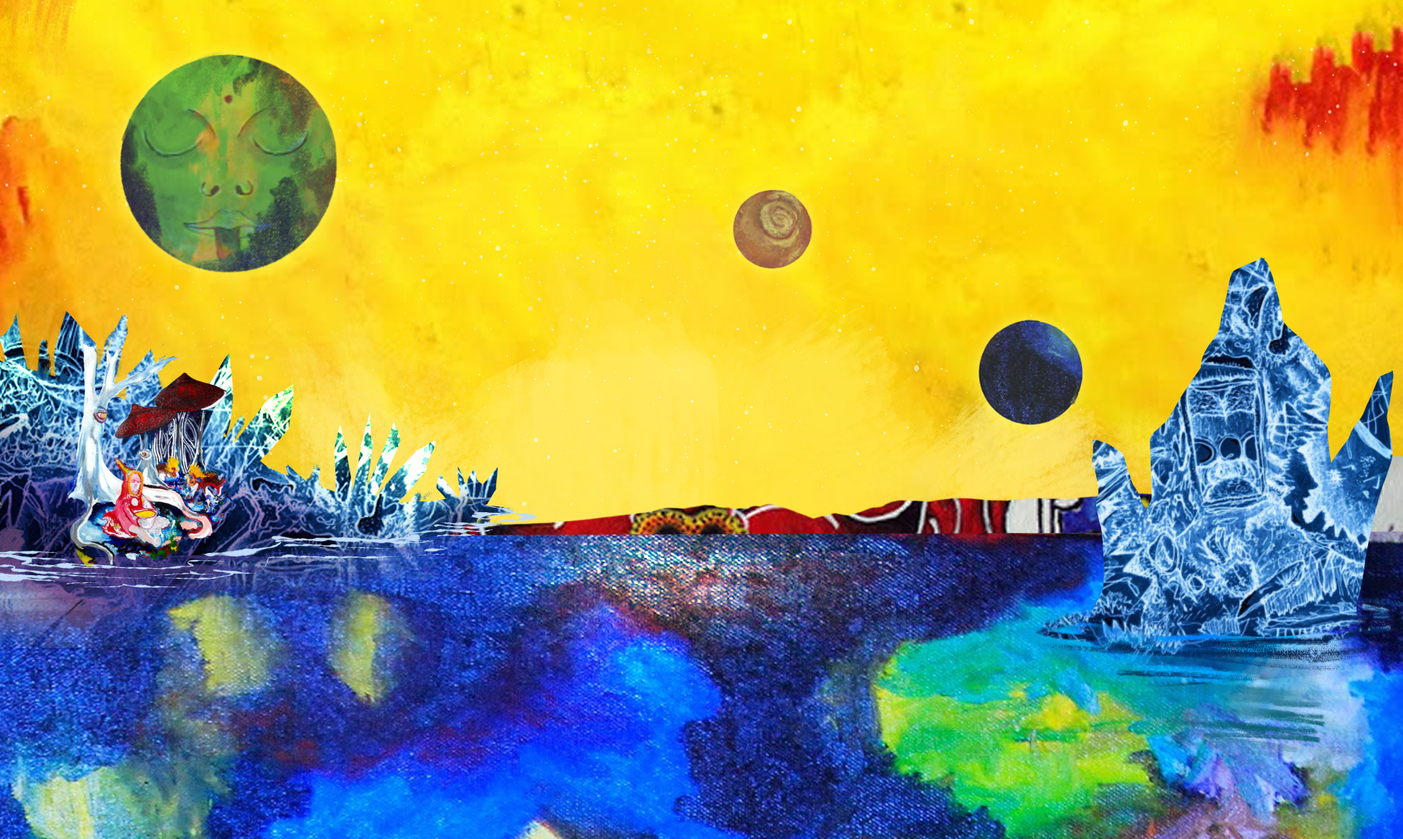
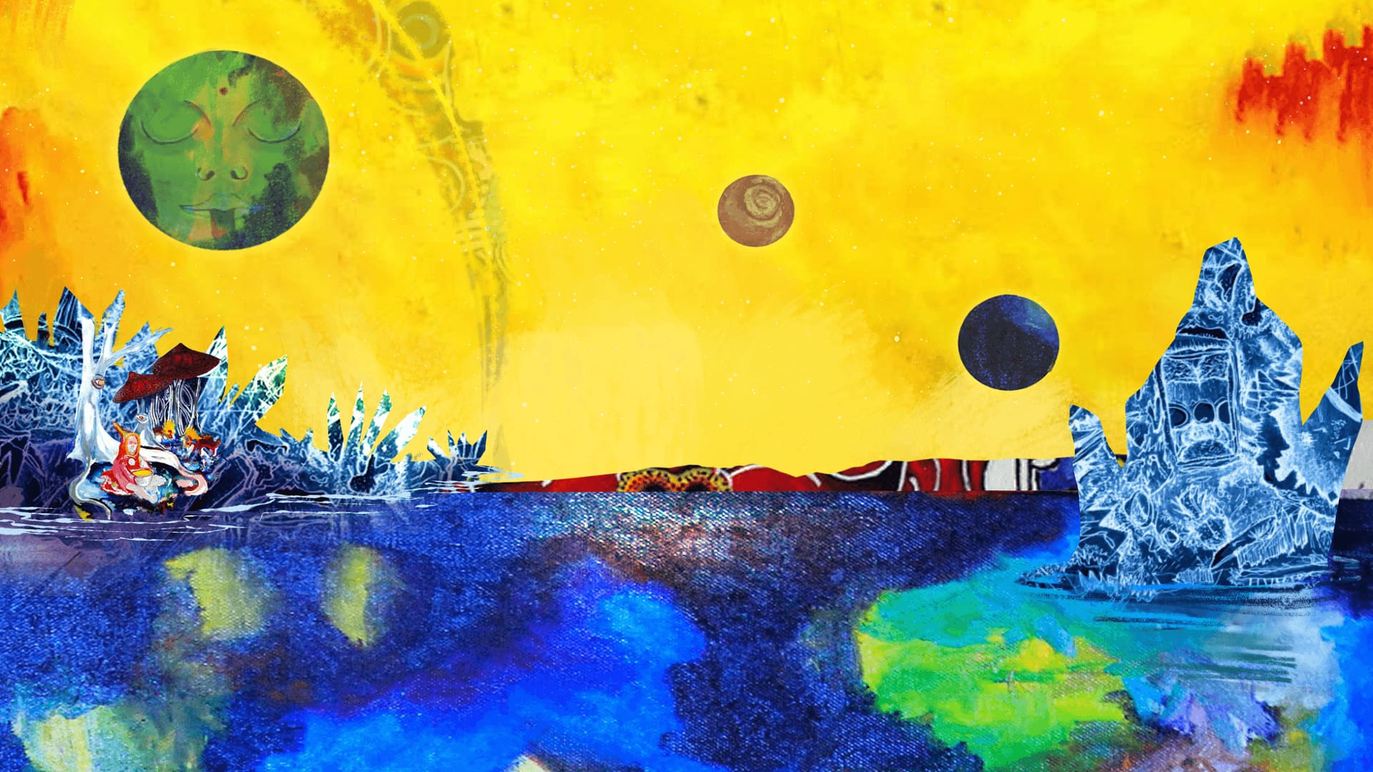
imágenes background comprimidas

diff --git a/src/pages/index.js b/src/pages/index.js
@@ -52,8 +52,7 @@ export default function Index({ data }) {
   const imagesLength = useRef(Object.keys(images).length + diamonds.length);
   // const [imagesLength, setImagesLength] = useState(Object.keys(images).length);
 
-  const onLoadImgages = (ii = '') => { // when images in landing is charged, set state to stop charging in landing
-    console.log(imagesLength.current, ii);
+  const onLoadImgages = () => { // when images in landing is charged, set state to stop charging in landing
     (imagesLength.current <= 0) ? setTimeout(() => { setloadingImages(false); }, 2000) : imagesLength.current--;
     // count of images in landing (+1 is because splash is two)
   }
@@ -121,7 +120,7 @@ export default function Index({ data }) {
         <div className={`loader ${loadingImages ? 'loader-content-images' : 'loader-content-diamonds'}`}>
           <div className="loader-box"></div>
           <div className="loader-shadow"></div>
-          {(loadingImages) ? <img className="loader-logo" src={require('../assets/images/Urano600.png')} alt='MarDeUrano' /> : <div className="loader-text"></div>}
+          {(loadingImages) ? <img className="loader-logo" src={images.landingLogo} alt='MarDeUrano' /> : <div className="loader-text"></div>}
         </div>
       }
 

diff --git a/src/assets/scss/mardeurano.scss b/src/assets/scss/mardeurano.scss
@@ -19,7 +19,7 @@ body {
 }
 
 .index {
-  background: url(../images/fondo.png) no-repeat center center fixed;
+  background: url(../images/fondo.jpg) no-repeat center center fixed;
   background-size: cover;
   margin: 0;
   max-height: 100vh;
@@ -718,7 +718,7 @@ body {
   }
 
   .index {
-    background-image: url(../images/fondosmall.png);
+    background-image: url(../images/fondosmall.jpg);
   }
 }
 

diff --git a/src/components/landing/ImageRef.js b/src/components/landing/ImageRef.js
@@ -8,7 +8,7 @@ export const ImageRef = ({ ...props }) => {
     useEffect(() => {
         ref.current.complete &&
             // console.log('Cargado');
-            props.onLoad(props.src);
+            props.onLoad();
     }, []);
 
     return (
